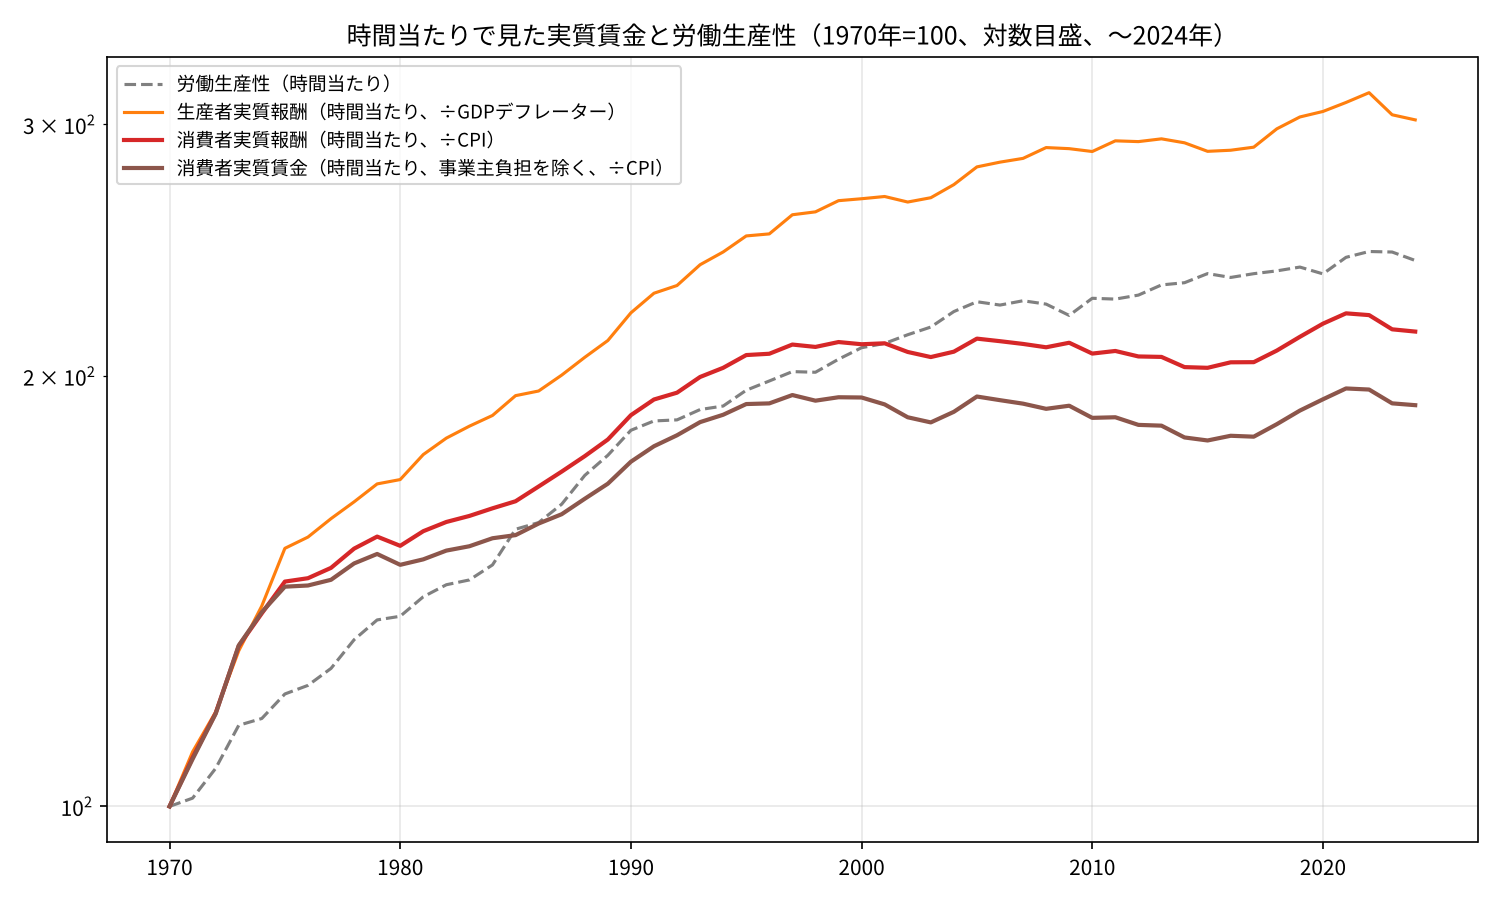
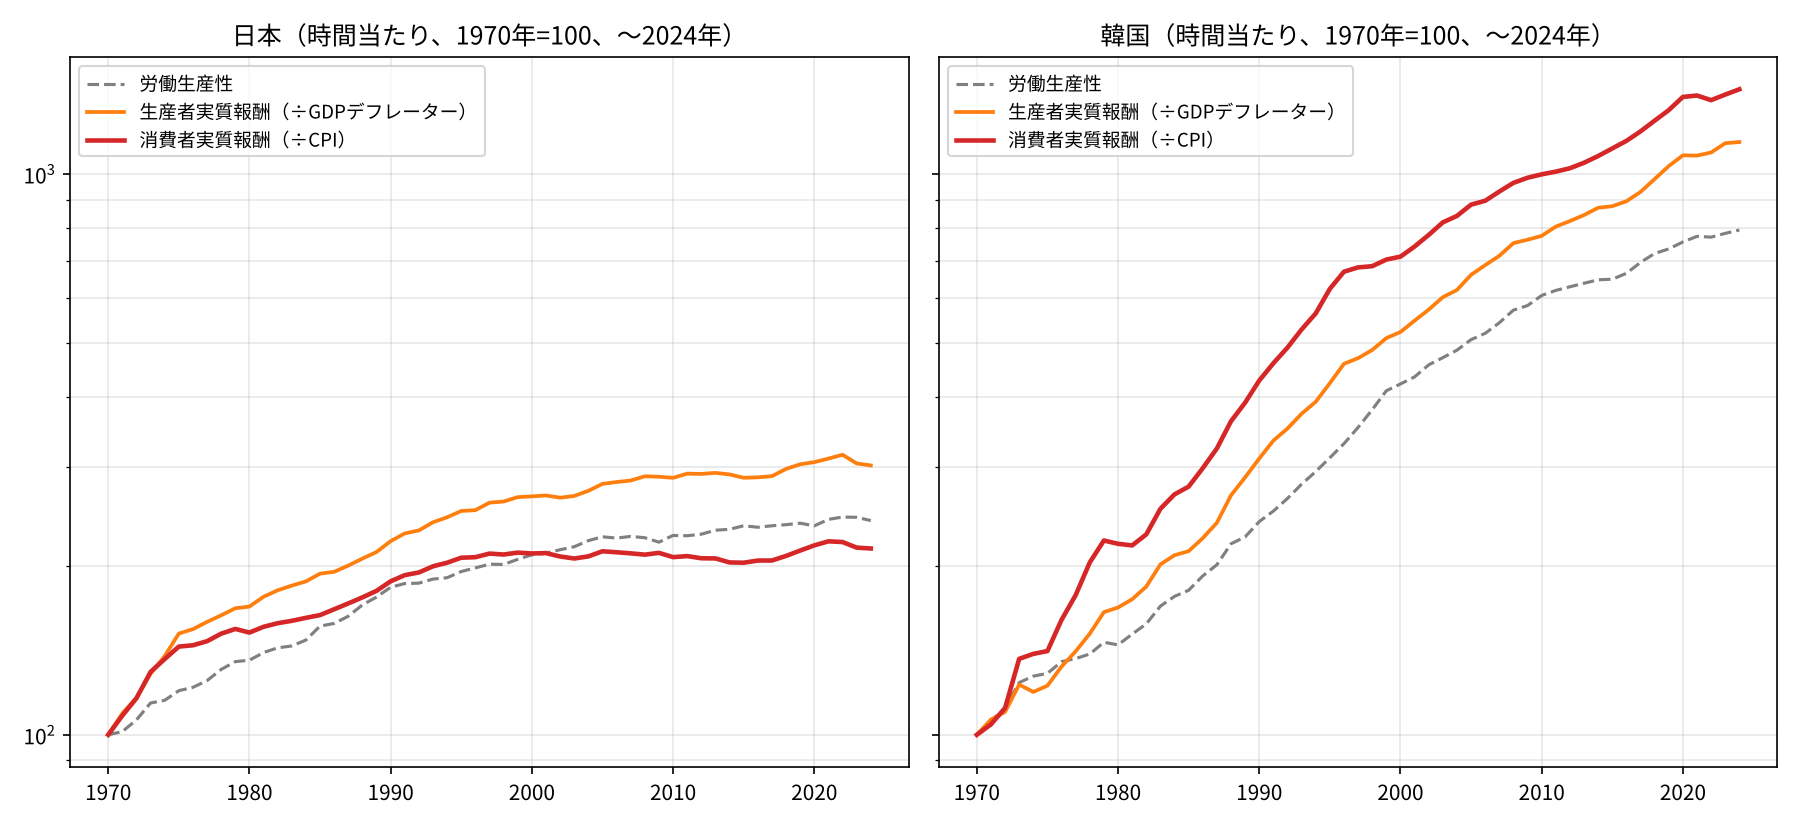
交易条件とデフレ/02：韓国を追加、1人当たり実質賃金と社会保険料除きの系列を削除
Claude-Session: https://claude.ai/code/session_01Bip2m2ix7JRAxNVKKdcDk5

diff --git a/README.md b/README.md
@@ -45,7 +45,7 @@ note に投稿する記事の原稿置き場です。
 内閣府 経済社会総合研究所（ESRI）の国民経済計算（2024年度年次推計・2026年4-6月期2次速報）と、OECD の単位労働コスト統計をもとにした記事です。
 
 - `交易条件とデフレ/01_交易損失は賃金を下げるのか.md`（グラフ：`01_chart_table.png`、`01_chart_decomp.png`）
-- `交易条件とデフレ/02_消えた実質賃金を捜査する.md`（OECD Economic Outlook の1960〜2025年データで、CPIとGDPデフレーターのギャップ、交易条件、実質賃金、ULC、時間当たり賃金を比べた記事。グラフ：`02_chart_gap_tot.png`、`02_chart_realwage_ulc.png`、`02_chart_hourly.png`）
+- `交易条件とデフレ/02_消えた実質賃金を捜査する.md`（OECD Economic Outlook の日本・韓国の長期データで、CPIとGDPデフレーターのギャップ、交易条件、時間当たり実質報酬、実質ULCを比べた記事。グラフ：`02_chart_gap_tot.png`、`02_chart_hourly.png`、`02_chart_realulc.png`）
 - `交易条件とデフレ/03_消えた実質賃金の先行研究.md`（内閣府・OECD・森川正之氏のRIETI論文・日銀研究を紹介する続編。価格指数、労働分配率、企業構成、購買力を整理し、低賃金と輸出価格の因果関係を今後の検証課題として提示）
 
 note のエディタは表に対応していないため、見出し・箇条書き・引用・リンクだけで書いています。
